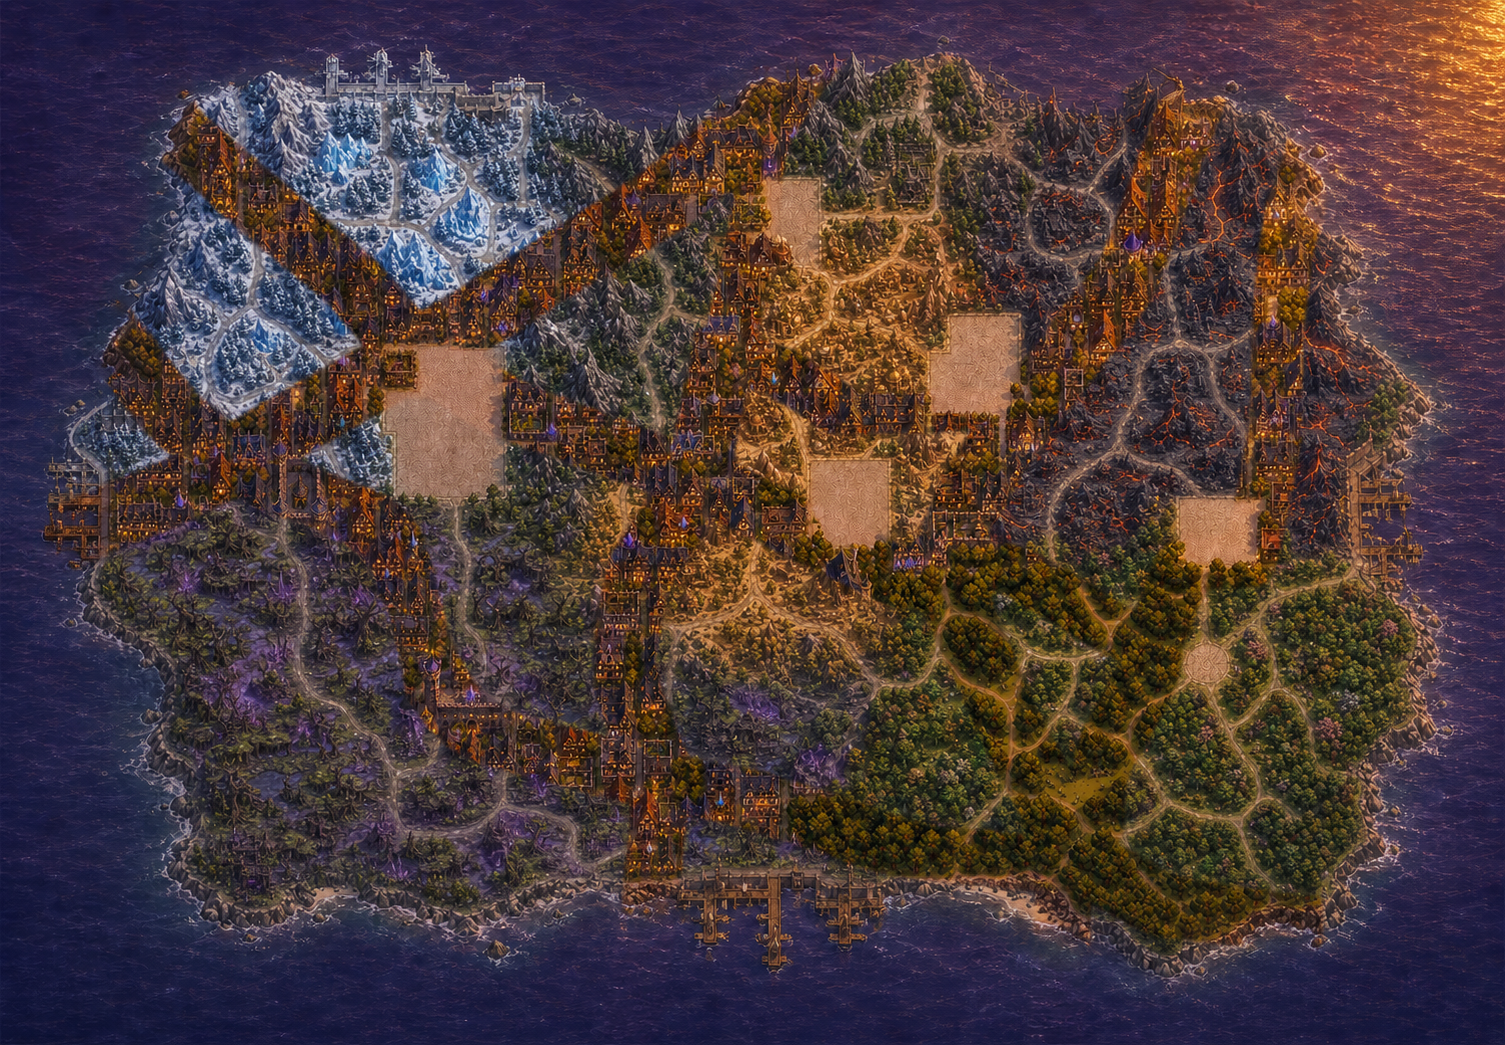
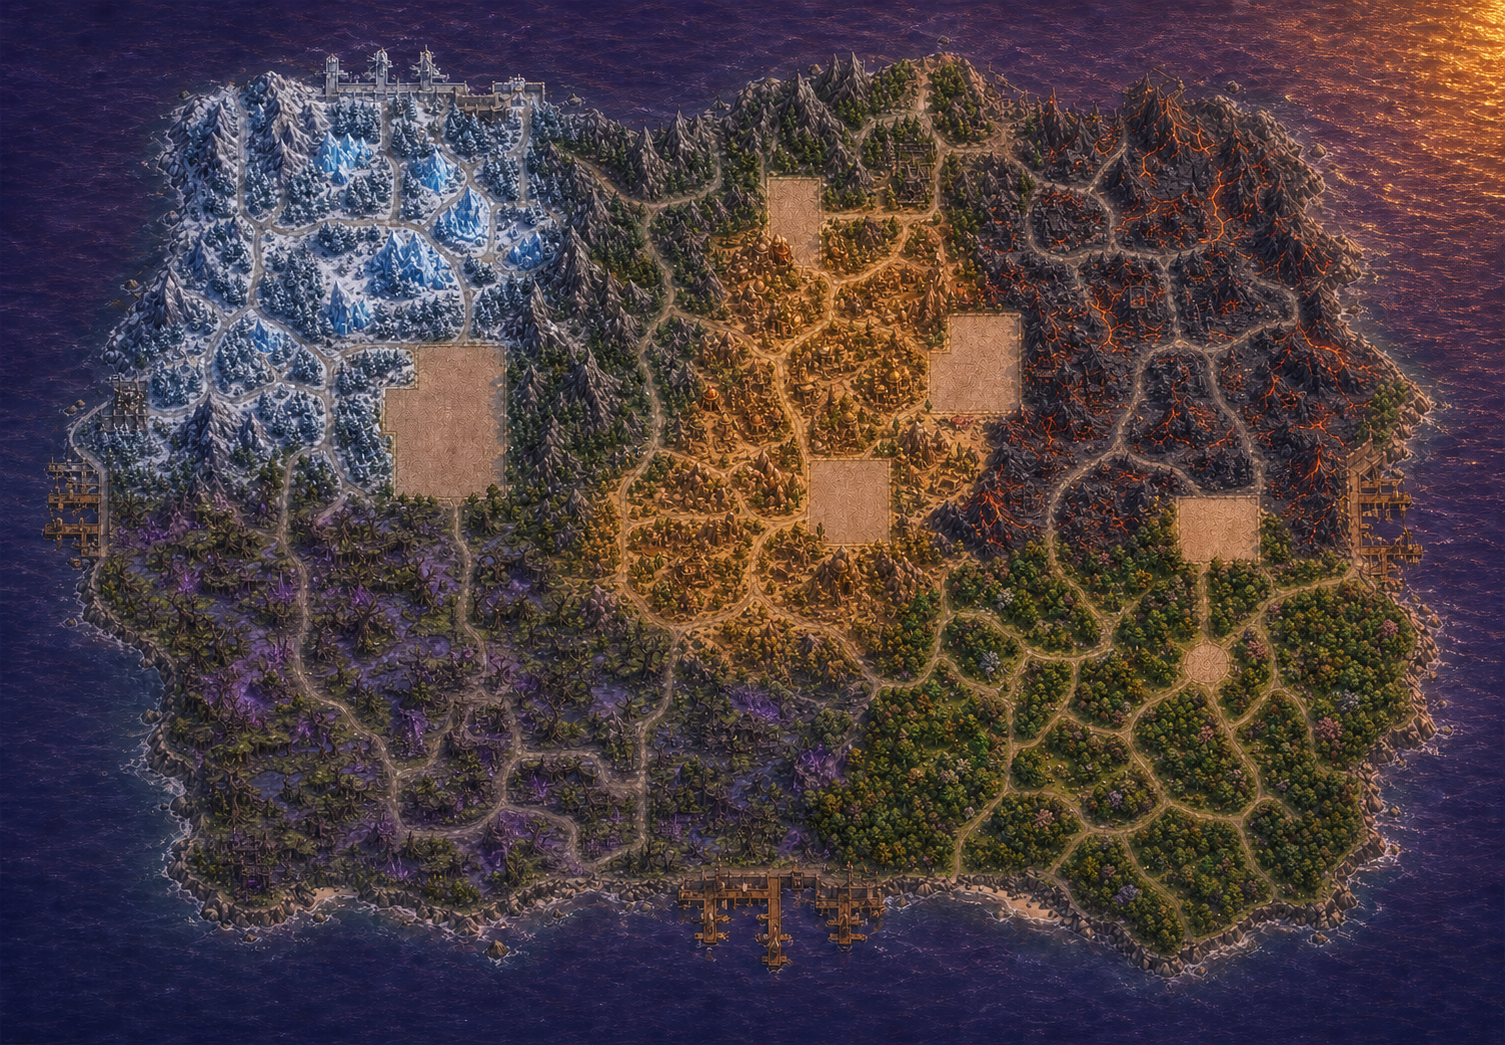
fix: remove city seams from past biomes

Changed region(s): [[0.0312, 0.0306, 0.9056, 0.9187], [0.9056, 0.0, 0.9369, 0.0306]]

diff --git a/tests/v2-osm-source.test.js b/tests/v2-osm-source.test.js
@@ -177,6 +177,14 @@ test('Past Evening map build clips roads to an island and leaves coastal road en
   assert.match(runtime, /V2_ROAD_COLLISION_PAST/);
 });
 
+test('Past Evening biome build never restores pre-biome city strips beside roads', () => {
+  const builder = fs.readFileSync(path.join('tools', 'build-v2-past-biomes.py'), 'utf8');
+  assert.match(builder, /TERRAIN\s*=\s*ASSETS/);
+  assert.doesNotMatch(builder, /road-collision-mask|ImageFilter|MaxFilter|Image\.composite/);
+  assert.doesNotMatch(builder, /past-evening-(?:source|runtime)-tiles/);
+  assert.match(builder, /Roads are rendered deterministically by build-v2-geographic-map\.py/);
+});
+
 test('future events can unlock memory fog through a stable game event API', () => {
   const runtime = fs.readFileSync('v2.js', 'utf8');
   assert.match(runtime, /window\.V2_GAME_EVENTS/);

diff --git a/v2.html b/v2.html
@@ -191,7 +191,7 @@
     <script src="assets/v2/road-collision-data.js?edition=1"></script>
     <script src="assets/v2/road-collision-past-data.js?edition=1"></script>
     <script src="assets/v2/map-layout-data.js?edition=1"></script>
-    <script src="v2-editions.js?edition=6"></script>
+    <script src="v2-editions.js?edition=7"></script>
     <script src="v2-assets.js?edition=1"></script>
     <script src="v2-landmarks.js?edition=1"></script>
     <script src="v2-battle.js?edition=7"></script>

diff --git a/tests/v2-past-tiles.test.js b/tests/v2-past-tiles.test.js
@@ -32,7 +32,7 @@ test('past runtime tiles were generated from the final road-composited map', () 
 
 test('past tile and runtime scripts use the current cache versions', () => {
   const html = fs.readFileSync('v2.html', 'utf8');
-  assert.match(html, /v2-editions\.js\?edition=6/);
+  assert.match(html, /v2-editions\.js\?edition=7/);
   assert.match(html, /v2-battle\.js\?edition=7/);
   assert.match(html, /v2\.js\?edition=18/);
 });

diff --git a/tests/v2-editions.test.js b/tests/v2-editions.test.js
@@ -28,7 +28,7 @@ test('both editions use four-tile seamless map directories', () => {
 
 test('Past Evening increments its tile cache version when the road-composited tiles change', () => {
   const past = editionDefinition('past');
-  assert.equal(past.tileVersion, 6);
+  assert.equal(past.tileVersion, 7);
 });
 
 test('Past Evening uses its own medieval landmark art with matching filenames', () => {

diff --git a/v2-editions.js b/v2-editions.js
@@ -20,7 +20,7 @@
       label: '過去編-夕方',
       subtitle: 'PAST · EVENING',
       tileDirectory: 'past-evening-runtime-tiles',
-      tileVersion: 6,
+      tileVersion: 7,
       landmarkDirectory: 'past-landmarks',
       landmarkSizeOverrides: Object.freeze({
         // The source sprite is tightly cropped after removing sheet-edge bleed.

diff --git a/tests/test_build_v2_past_biomes.py b/tests/test_build_v2_past_biomes.py
@@ -1,0 +1,69 @@
+from __future__ import annotations
+
+import importlib.util
+import inspect
+import tempfile
+import unittest
+from pathlib import Path
+
+from PIL import Image
+
+
+ROOT = Path(__file__).resolve().parent.parent
+MODULE_PATH = ROOT / "tools" / "build-v2-past-biomes.py"
+SPEC = importlib.util.spec_from_file_location("build_v2_past_biomes", MODULE_PATH)
+assert SPEC is not None and SPEC.loader is not None
+MODULE = importlib.util.module_from_spec(SPEC)
+SPEC.loader.exec_module(MODULE)
+
+
+class BuildBiomeMapTests(unittest.TestCase):
+    def test_uses_the_clean_biome_art_across_the_entire_background(self) -> None:
+        """Roads are rendered later, so no pre-biome city pixels should be restored."""
+        with tempfile.TemporaryDirectory() as directory:
+            root = Path(directory)
+            terrain_path = root / "clean-biomes.png"
+            output_path = root / "map-background.png"
+
+            terrain = Image.new("RGB", (65, 49), (17, 43, 91))
+            for y in range(terrain.height):
+                terrain.putpixel((terrain.width // 2, y), (91, 32, 17))
+            terrain.save(terrain_path)
+            source_bytes = terrain_path.read_bytes()
+
+            composed = MODULE.build_map(
+                terrain_path=terrain_path,
+                output_path=output_path,
+            )
+
+            self.assertEqual(composed.tobytes(), terrain.tobytes())
+            with Image.open(output_path) as output:
+                self.assertEqual(output.convert("RGB").tobytes(), terrain.tobytes())
+            self.assertEqual(terrain_path.read_bytes(), source_bytes)
+
+    def test_defers_tile_publication_until_after_roads_are_rendered(self) -> None:
+        self.assertNotIn("assets_path", inspect.signature(MODULE.build_map).parameters)
+
+        with tempfile.TemporaryDirectory() as directory:
+            root = Path(directory)
+            terrain_path = root / "clean-biomes.png"
+            output_path = root / "map-background.png"
+            terrain = Image.new("RGB", (5, 3))
+            for y in range(terrain.height):
+                for x in range(terrain.width):
+                    terrain.putpixel((x, y), (x * 30, y * 60, x + y))
+            terrain.save(terrain_path)
+
+            MODULE.build_map(
+                terrain_path=terrain_path,
+                output_path=output_path,
+            )
+
+            self.assertEqual(sorted(path.name for path in root.iterdir()), [
+                "clean-biomes.png",
+                "map-background.png",
+            ])
+
+
+if __name__ == "__main__":
+    unittest.main()

diff --git a/tools/build-v2-past-biomes.py b/tools/build-v2-past-biomes.py
@@ -1,41 +1,29 @@
 from pathlib import Path
 
-from PIL import Image, ImageFilter
+from PIL import Image
 
 
 ROOT = Path(__file__).resolve().parent.parent
 ASSETS = ROOT / "assets" / "v2"
 GENERATED = Path(r"C:\Users\ShinichiroMotomatu\.codex\generated_images\019fda35-90a3-7903-bfb1-31deeabd2ab7")
-TERRAIN = GENERATED / "exec-0269dd9f-4ac8-435b-9ab8-ed0360b99b4a.png"
 SPRITES = GENERATED / "exec-78419840-0a11-42a4-b2d9-7725cd8adc55.png"
+TERRAIN = ASSETS / "roppongi-city-blocks-past-evening-biomes-source.png"
 SOURCE = ASSETS / "roppongi-city-blocks-past-evening-island-source.png"
-VERSIONED = ASSETS / "roppongi-city-blocks-past-evening-biomes-source.png"
-MASK = ASSETS / "road-collision-mask.png"
 
 
-def build_map() -> None:
-    original = Image.open(SOURCE).convert("RGB")
-    terrain = Image.open(TERRAIN).convert("RGB").resize(original.size, Image.Resampling.LANCZOS)
-    # Restore the exact original road surface and shoulders. The generated art only supplies terrain.
-    roads = Image.open(MASK).convert("L").resize(original.size, Image.Resampling.NEAREST)
-    roads = roads.filter(ImageFilter.MaxFilter(31)).filter(ImageFilter.GaussianBlur(2))
-    composed = Image.composite(original, terrain, roads)
-    composed.save(VERSIONED, optimize=True)
-    composed.save(SOURCE, optimize=True)
-
-    source_dir = ASSETS / "past-evening-source-tiles"
-    runtime_dir = ASSETS / "past-evening-runtime-tiles"
-    source_dir.mkdir(exist_ok=True)
-    runtime_dir.mkdir(exist_ok=True)
-    width, height = composed.size
-    x_edges = [0, (width + 1) // 2, width]
-    y_edges = [0, (height + 1) // 2, height]
-    for row in range(2):
-        for col in range(2):
-            tile = composed.crop((x_edges[col], y_edges[row], x_edges[col + 1], y_edges[row + 1]))
-            tile.save(source_dir / f"{col}-{row}.png", optimize=True)
-            runtime = tile.resize((tile.width * 4, tile.height * 4), Image.Resampling.LANCZOS)
-            runtime.save(runtime_dir / f"{col}-{row}.png", optimize=True)
+def build_map(
+    *,
+    terrain_path: Path = TERRAIN,
+    output_path: Path = SOURCE,
+) -> Image.Image:
+    # Roads are rendered deterministically by build-v2-geographic-map.py.
+    # Keep this layer terrain-only: restoring an older road reserve also
+    # restores strips of the pre-biome city between roads and the new biomes.
+    with Image.open(terrain_path) as terrain:
+        composed = terrain.convert("RGB")
+    output_path.parent.mkdir(parents=True, exist_ok=True)
+    composed.save(output_path, optimize=True)
+    return composed
 
 
 def build_monsters() -> None:
